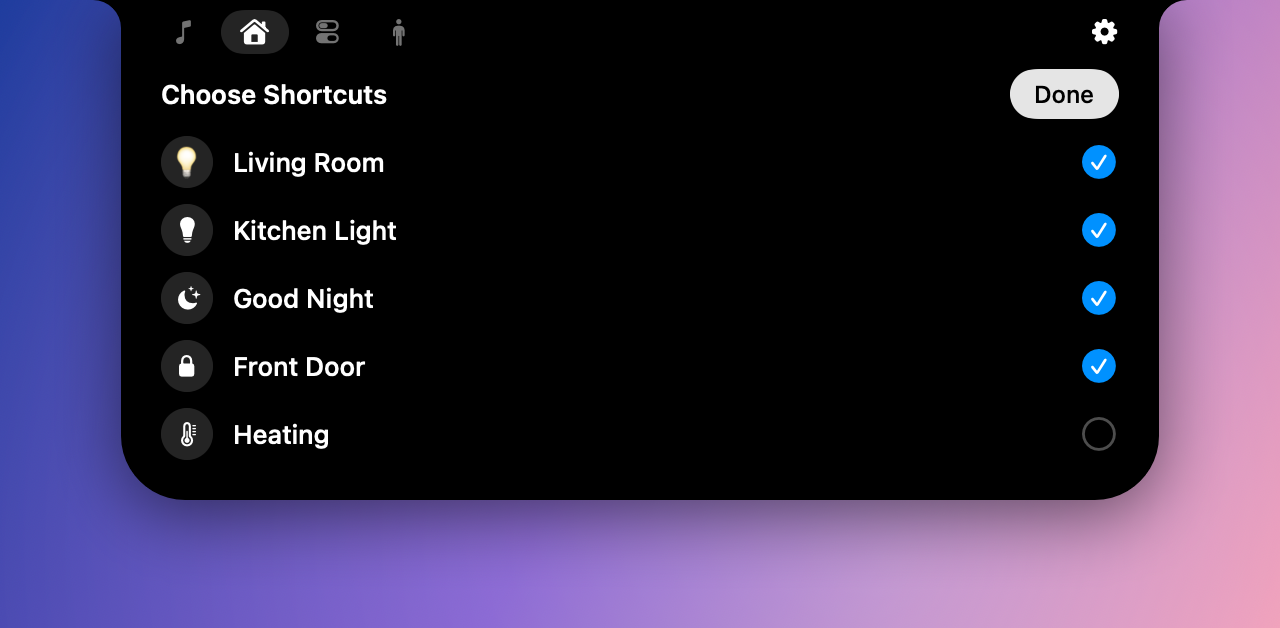
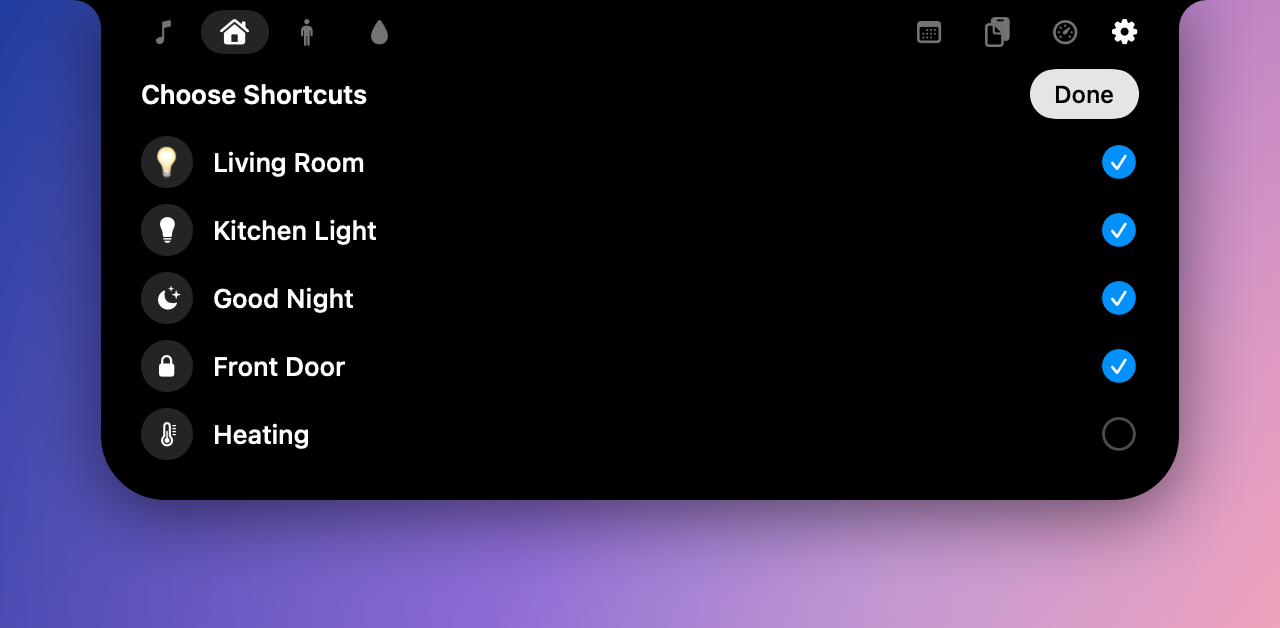
Update Dynamic Island screenshots
Snapshots now get a stand-in track (debug builds have no now-playing
bridge), keep the stand-in calendar after the tab reloads, and skip the
AppKit drag views and scroll view that ImageRenderer can't draw.

Changed region(s): [[0.0625, 0.0, 0.3125, 0.8169], [0.7188, 0.0, 0.9375, 0.8169], [0.125, 0.0, 0.3125, 0.0908]]

diff --git a/DynamicIsland/Sources/DynamicIsland/Debug/SnapshotRenderer.swift b/DynamicIsland/Sources/DynamicIsland/Debug/SnapshotRenderer.swift
@@ -9,6 +9,8 @@ enum SnapshotRenderer {
         try? FileManager.default.createDirectory(at: directory, withIntermediateDirectories: true)
         Task {
             try? await Task.sleep(for: .seconds(3))
+            model.media.showPreview(title: "Golden Hour Over the Harbor", artist: "Lumen Avenue",
+                                    duration: 213, elapsed: 173, artwork: previewArtwork())
             render("1-closed", model, directory)
             render("2-compact", model, directory)
             model.showTrackPeek()
@@ -74,6 +76,7 @@ enum SnapshotRenderer {
             render("15-calendar-reminder", model, directory)
             model.open()
             model.select(.calendar)
+            model.calendar.showPreview(events)  // Opening the tab reloads the real calendar.
             render("16-open-calendar", model, directory)
             model.select(.media)
             model.close()
@@ -113,6 +116,31 @@ enum SnapshotRenderer {
         }
     }
 
+    /// A stand-in album cover: a sunset over water.
+    private static func previewArtwork() -> NSImage {
+        let view = ZStack {
+            VStack(spacing: 0) {
+                LinearGradient(colors: [Color(red: 1, green: 0.7, blue: 0.4), Color(red: 0.98, green: 0.42, blue: 0.3)],
+                               startPoint: .top, endPoint: .bottom)
+                LinearGradient(colors: [Color(red: 0.32, green: 0.28, blue: 0.62), Color(red: 0.16, green: 0.18, blue: 0.42)],
+                               startPoint: .top, endPoint: .bottom)
+            }
+            Circle().fill(Color(red: 1, green: 0.93, blue: 0.75)).frame(width: 150, height: 150)
+                .offset(y: -10).frame(width: 300, height: 300, alignment: .center)
+                .mask(VStack(spacing: 0) { Rectangle(); Color.clear })
+            VStack(spacing: 12) {
+                ForEach(0..<5) { index in
+                    Capsule().fill(.white.opacity(0.5)).frame(width: 90 - CGFloat(index) * 12, height: 3)
+                }
+            }
+            .offset(y: 60)
+        }
+        .frame(width: 300, height: 300)
+        let renderer = ImageRenderer(content: view)
+        renderer.scale = 2
+        return renderer.nsImage ?? NSImage()
+    }
+
     /// A stand-in screenshot: the wallpaper with a window on it.
     private static func previewScreenshot() -> NSImage {
         let view = ZStack {
@@ -139,7 +167,7 @@ enum SnapshotRenderer {
         let height = max(model.size.height + 64, 110)
         let view = ZStack(alignment: .top) {
             Wallpaper()
-            IslandRootView().environment(model)
+            IslandRootView().environment(model).environment(\.isSnapshot, true)
         }
         .frame(width: 640, height: height)
         write(view, scale: 2, to: directory.appendingPathComponent("\(name).png"))
@@ -150,7 +178,7 @@ enum SnapshotRenderer {
         let view = ZStack(alignment: .top) {
             Wallpaper()
             MenuBar(height: model.notch.height)
-            IslandRootView().environment(model)
+            IslandRootView().environment(model).environment(\.isSnapshot, true)
         }
         .frame(width: 1000, height: 240)
         write(view, scale: 2, to: directory.appendingPathComponent("\(name).png"))

diff --git a/DynamicIsland/Sources/DynamicIsland/Views/ShelfViews.swift b/DynamicIsland/Sources/DynamicIsland/Views/ShelfViews.swift
@@ -7,6 +7,7 @@ import SwiftUI
 /// Drag one out to use it, and it leaves the shelf.
 struct ShelfSection: View {
     @Environment(IslandModel.self) private var model
+    @Environment(\.isSnapshot) private var isSnapshot
 
     var body: some View {
         Group {
@@ -33,20 +34,28 @@ struct ShelfSection: View {
             .foregroundStyle(.white.opacity(0.45))
             .frame(height: IslandLayout.sectionHeaderHeight, alignment: .bottom)
 
-            ScrollView(.horizontal) {
-                HStack(spacing: 6) {
-                    ForEach(shelf.files, id: \.self) { url in
-                        ShelfFileTile(url: url)
-                            .transition(.scale(scale: 0.6).combined(with: .opacity))
-                    }
+            Group {
+                if isSnapshot {
+                    tiles
+                } else {
+                    ScrollView(.horizontal) { tiles }
+                        .scrollIndicators(.never)
                 }
-                .padding(.vertical, 4)
             }
-            .scrollIndicators(.never)
             .frame(height: IslandLayout.shelfTileHeight + 8)
             .padding(.horizontal, -6)
             .animation(.spring(response: 0.4, dampingFraction: 0.78), value: shelf.files)
         }
+    }
+
+    private var tiles: some View {
+        HStack(spacing: 6) {
+            ForEach(model.shelf.files, id: \.self) { url in
+                ShelfFileTile(url: url)
+                    .transition(.scale(scale: 0.6).combined(with: .opacity))
+            }
+        }
+        .padding(.vertical, 4)
     }
 
     private var emptyState: some View {
@@ -75,6 +84,7 @@ struct ShelfSection: View {
 private struct ShelfFileTile: View {
     let url: URL
     @Environment(IslandModel.self) private var model
+    @Environment(\.isSnapshot) private var isSnapshot
     @State private var isHovering = false
 
     var body: some View {
@@ -93,10 +103,12 @@ private struct ShelfFileTile: View {
         .frame(width: IslandLayout.shelfTileWidth, height: IslandLayout.shelfTileHeight)
         .background(RoundedRectangle(cornerRadius: 12, style: .continuous).fill(.white.opacity(isHovering ? 0.1 : 0)))
         .overlay {
-            ShelfDragArea(url: url) {
-                model.close()
-            } onDraggedOut: {
-                model.shelf.remove(url)
+            if !isSnapshot {
+                ShelfDragArea(url: url) {
+                    model.close()
+                } onDraggedOut: {
+                    model.shelf.remove(url)
+                }
             }
         }
         .overlay(alignment: .topTrailing) {

diff --git a/DynamicIsland/Sources/DynamicIsland/Views/ScreenshotViews.swift b/DynamicIsland/Sources/DynamicIsland/Views/ScreenshotViews.swift
@@ -6,6 +6,7 @@ import SwiftUI
 /// The newest screenshot, popped out of the notch so it can be dragged straight into another app.
 struct ScreenshotShelfView: View {
     @Environment(IslandModel.self) private var model
+    @Environment(\.isSnapshot) private var isSnapshot
 
     var body: some View {
         let screenshots = model.screenshots
@@ -15,10 +16,12 @@ struct ScreenshotShelfView: View {
                 HStack(spacing: 12) {
                     thumbnail(screenshots.thumbnail)
                         .overlay {
-                            FileDragSource(url: shot.url, image: screenshots.thumbnail,
-                                           onBegin: { model.beginScreenshotDrag() },
-                                           onEnd: { model.endScreenshotDrag(dropped: $0) },
-                                           onClick: { screenshots.open(shot) })
+                            if !isSnapshot {
+                                FileDragSource(url: shot.url, image: screenshots.thumbnail,
+                                               onBegin: { model.beginScreenshotDrag() },
+                                               onEnd: { model.endScreenshotDrag(dropped: $0) },
+                                               onClick: { screenshots.open(shot) })
+                            }
                         }
                         .help("Drag to use it, click to open it")
                     VStack(alignment: .leading, spacing: 1) {

diff --git a/DynamicIsland/Sources/DynamicIsland/Services/NowPlayingService.swift b/DynamicIsland/Sources/DynamicIsland/Services/NowPlayingService.swift
@@ -180,6 +180,21 @@ final class NowPlayingService {
         if trackChanged && !isFirst && hasMedia { onTrackChange?() }
     }
 
+    #if DEBUG
+    /// A stand-in track for snapshots; the bridge only runs from the app bundle.
+    func showPreview(title: String, artist: String, duration: Double, elapsed: Double, artwork: NSImage?) {
+        self.title = title
+        self.artist = artist
+        album = ""
+        self.duration = duration
+        isPlaying = true
+        rate = 0  // Frozen, so every snapshot shows the same position.
+        elapsedAnchor = elapsed
+        anchorDate = Date()
+        setArtwork(artwork)
+    }
+    #endif
+
     private func setArtwork(_ image: NSImage?) {
         artwork = image
         artworkVersion += 1

diff --git a/DynamicIsland/Sources/DynamicIsland/Views/Components.swift b/DynamicIsland/Sources/DynamicIsland/Views/Components.swift
@@ -75,10 +75,20 @@ private struct HapticFeedbackEnabledKey: EnvironmentKey {
     static let defaultValue = false
 }
 
+/// Set by `--snapshots`: `ImageRenderer` draws AppKit views as a placeholder and scroll views as nothing.
+private struct IsSnapshotKey: EnvironmentKey {
+    static let defaultValue = false
+}
+
 extension EnvironmentValues {
     var hapticFeedbackEnabled: Bool {
         get { self[HapticFeedbackEnabledKey.self] }
         set { self[HapticFeedbackEnabledKey.self] = newValue }
+    }
+
+    var isSnapshot: Bool {
+        get { self[IsSnapshotKey.self] }
+        set { self[IsSnapshotKey.self] = newValue }
     }
 }
 
